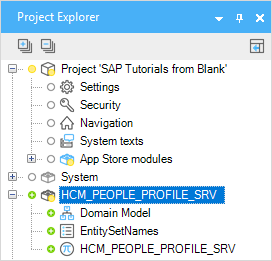
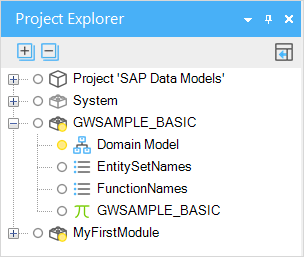
Update How to use OData model creator Remove Fiori endpoint references Add SAP Data Catalog

Changed region(s): [[0.0, 0.0, 1.0, 0.9961], [0.8529, 0.0311, 0.9118, 0.0934], [0.7941, 0.0623, 0.8235, 0.0934]]

diff --git a/content/howto/sap/use-sap-odata-model-creator.md b/content/howto/sap/use-sap-odata-model-creator.md
@@ -4,6 +4,7 @@ category: "SAP"
 menu_order: 20
 description: "Presents the use of the SAP OData Model Creator."
 tags: ["SAP", "OData", "integration", "SAP services"]
+#If moving or renaming this doc file, implement a temporary redirect and let the respective team know they should update the URL in the product. See Mapping to Products for more details.
 ---
 
 ## 1 Introduction
@@ -12,9 +13,10 @@ SAP data models reflect an OData service from SAP back-end systems like SAP Busi
 
 Handcrafting a Mendix domain model for these OData services would be a lot of work. The SAP OData Model Creator automates this process by creating a Mendix module for the selected service containing the Mendix domain model which can be imported in your project. The data model also contains additional information such as the URL of the exposed endpoint, a list of collections in the service, and a list of functions provided by the service.
 
-There are three ways to create the data model:
+There are four ways to create the data model:
 
 * [Using the API Business Hub](#APIBusHub)
+* [Selecting an API from the SAP Catalog Service](#catalog)
 * [Uploading an Odata Metadata XML File](#Uploading)
 * [Providing the URL to the Metadata](#URL)
 
@@ -24,6 +26,7 @@ Before starting this how-to, make sure you have completed the following prerequi
 
 * Identify the SAP back-end system and OData service you wish to use
 * Create the app in Mendix Studio Pro
+* Obtain authentication credentials, if needed, for the SAP Catalog Service or SAP back-end system you wish to use
 
 {{% alert type="warning" %}}
 SAP OData Model Creator only supports SAP OData Gateway Services which use OData version 2 or version 3. OData version 4 is not yet supported.
@@ -43,13 +46,14 @@ You will be asked how you want to generate your model.
 
 ![](attachments/use-sap-odata-model-creator/model-creator-wizard-1.png)
 
-There are three ways to generate your data model.
+There are four ways to generate your data model.
 
-* If your SAP back-end system stores the OData API package on the SAP API Business Hub, then you can create the data model from there; select **API Business Hub** as the source and continue with section [3.1 Using the API Business Hub](#APIBusHub)
-* If you have access to the metadata file, select **Manual** and continue with section [3.2 Uploading an Odata Metadata XML File](#Uploading)
-* If you have the metadata URL for the OData service, select **URL** and continue with section [3.3 Providing the URL to the Metadata](#URL)
+* If your SAP back-end system stores the OData API package on the SAP API Business Hub, you can create the data model from there; select **API Business Hub** as the source and continue with [Using the API Business Hub](#APIBusHub)
+* If your SAP API is in the SAP Catalog Service, you can create the data model from there; select **SAP Catalog Service** and continue with [Selecting an API from the SAP Catalog Service](#catalog)
+* If you have access to the metadata file, select **Manual** and continue with [Uploading an Odata Metadata XML File](#Uploading)
+* If you have the metadata URL for the OData service, select **URL** and continue with [Providing the URL to the Metadata](#URL)
 
-### 3.1 Using the API Business Hub<a name="APIBusHub"></a>
+### 3.1 Using the API Business Hub{#APIBusHub}
 
 Your SAP back-end OData API is held in the API Business Hub.
 
@@ -100,15 +104,63 @@ There may be several schemas in the packages of an API. Each of these will gener
 
 10. Save the file locally. It is recommended that you save it in the **resources** folder of your Mendix app so that you can find it easily.
 
-You have now created the module. Section [4 Using the Data Model Module in a Mendix App](#Using) explains how to import it into your app.
+You have now created the module. The [Using the Data Model Module in a Mendix App](#Using) section, below, explains how to import it into your app.
 
-### 3.2 Uploading an OData Metadata XML File<a name="Uploading"></a>
+### 3.2 Selecting an API from the SAP Catalog Service{#catalog}
+
+Your SAP back-end OData API is held in the SAP Catalog Service.
+
+{{% alert type="info" %}}
+There may be several schemas in the packages of an API. Each of these will generate a module. Depending on the functionality of your app, you may have to generate several modules and import all of them into your app.
+{{% /alert %}}
+
+1. Click **SAP Catalog Service**.
+
+    You will be asked to log in to you SAP Service Catalog. Enter your **User name**, **Password**, and **Server**. Select the correct protocol and **Port** if these are not the default.
+
+    ![](attachments/use-sap-odata-model-creator/model-creator-wizard-2-1-catalog.png)
+
+2. Click **Continue**. 
+
+    You will be presented with a list of OData API definitions. You can search this list (this includes text in the API description as well as the API name), and page through it using the paging buttons.
+
+    ![](attachments/use-sap-odata-model-creator/model-creator-wizard-2-catalog.png)
+
+    {{% alert type="info" %}}You can return to any stage in this process by clicking on the relevant step number.
+    {{% /alert %}}
+
+3. Click the API you want. It will be highlighted.
+
+4. Click **Continue** to see the schemas within the API.
+
+    ![](attachments/use-sap-odata-model-creator/model-creator-wizard-3-catalog.png)
+
+    {{% alert type="info" %}}This will be shown even if only one schema exists.
+    {{% /alert %}}
+
+5. Click the schema you want. It will be highlighted.
+
+6. Click **Continue** to proceed to the confirmation screen.
+
+    ![](attachments/use-sap-odata-model-creator/model-creator-wizard-4-catalog.png)
+
+7. Click **Generate .mpk** to generate the data model module.
+
+    ![](attachments/use-sap-odata-model-creator/model-creator-generated-catalog.png)
+
+8. Click **Download**.
+
+    Your browser will offer options on what to do with the file.
+    
+9. Save the file locally. It is recommended that you save it in the **resources** folder of your Mendix app so that you can find it easily.
+
+You have now created the module. The [Using the Data Model Module in a Mendix App](#Using) section, below, explains how to import it into your app.
+
+### 3.3 Uploading an OData Metadata XML File{#Uploading}
 
 You may want to generate the data model by hand using the `$metadata` file directly. This may, for example, not be in the API Business Hub.
 
 One way to do this is by getting the OData metadata XML file. This file can be download from the OData service URL directly using the `$metadata` suffix. The browser will display the xml and you can use the right mouse button in most browsers to choose to download the xml file. Save the file locally. It is recommended that you save it in the **resources** folder of your Mendix app so that you can find it easily.
-
-To try this you could use the publicly available HCM People Profile service, for which [https://www.sapfioritrial.com/sap/opu/odata/sap/HCM_PEOPLE_PROFILE_SRV/$metadata](https://www.sapfioritrial.com/sap/opu/odata/sap/HCM_PEOPLE_PROFILE_SRV/$metadata) is the metadata file.
 
 1.  Download the xml metadata file to your local drive.
 
@@ -151,11 +203,11 @@ To try this you could use the publicly available HCM People Profile service, for
 
 12. Save the file locally. It is recommended that you save it in the **resources** folder of your Mendix app so that you can find it easily.
 
-You have now created the module. Section [4 Using the Data Model Module in a Mendix App](#Using) explains how to import it into your app.
+You have now created the module. The [Using the Data Model Module in a Mendix App](#Using) section, below, explains how to import it into your app.
 
-### 3.3 Providing the URL to the Metadata<a name="URL"></a>
+### 3.4 Providing the URL to the Metadata{#URL}
 
-You can also generate the data model from the metadata by providing the URL to the SAP OData Model Creator. You can try this using the publicly available HCM People Profile service, for which [https://www.sapfioritrial.com/sap/opu/odata/sap/HCM_PEOPLE_PROFILE_SRV/$metadata](https://www.sapfioritrial.com/sap/opu/odata/sap/HCM_PEOPLE_PROFILE_SRV/$metadata) is the metadata file.
+You can also generate the data model from the metadata by providing the URL to the SAP OData Model Creator.
 
 {{% alert type="warning" %}}
 This method does not work where the destination needs authentication. You cannot use it, for example, to generate a data model for a service on the ES5 Gateway Demo.
@@ -192,9 +244,9 @@ This method does not work where the destination needs authentication. You cannot
 
 9. Save the file locally. It is recommended that you save it in the **resources** folder of your Mendix app so that you can find it easily.
 
-You have now created the module. Section [4 Using the Data Model Module in a Mendix App](#Using) explains how to import it into your app.
+You have now created the module. The [Using the Data Model Module in a Mendix App](#Using) section, below, explains how to import it into your app.
 
-## 4 Using the Data Model Module in a Mendix App<a name="Using"></a>
+## 4 Using the Data Model Module in a Mendix App{#Using}
 
 Now you have a Mendix module ready to import into your project.
 
@@ -206,7 +258,7 @@ Now you have a Mendix module ready to import into your project.
 
 3. Use the navigation dialog to find your module, which will have the suffix **.mpk**.
 
-    You now have your service **HCM\_PEOPLE\_PROFILE\_SRV** module available in your project ready to use in combination with the SAP OData Connector.
+    You now have your service module, for example **GWSAMPLE_BASIC**, available in your project ready to use in combination with the SAP OData Connector.
 
     ![](attachments/use-sap-odata-model-creator/project_explorer.png)
 
@@ -218,7 +270,6 @@ For more information on how to use the imported data model together with the SAP
 
 ## 5 Read More
 
-* [HCM People Profile Service sample metadata](https://www.sapfioritrial.com/sap/opu/odata/sap/HCM_PEOPLE_PROFILE_SRV/$metadata)
 * [Use App Store Content](/developerportal/app-store/app-store-content)
 * [Use the SAP OData Connector](/howto/sap/use-sap-odata-connector)
 * [SAP OData Connector](https://appstore.home.mendix.com/link/app/74525/Mendix/SAP-OData-Connector)
